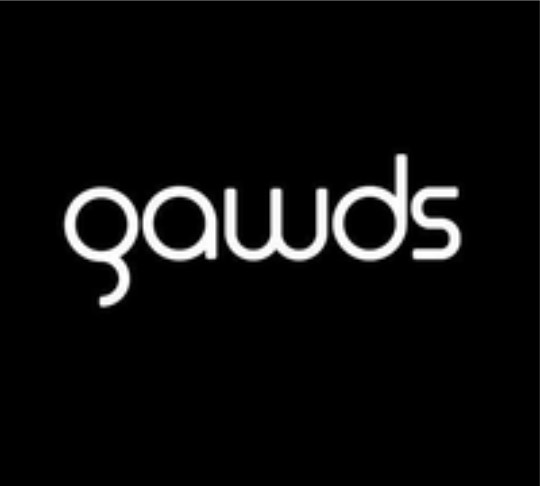
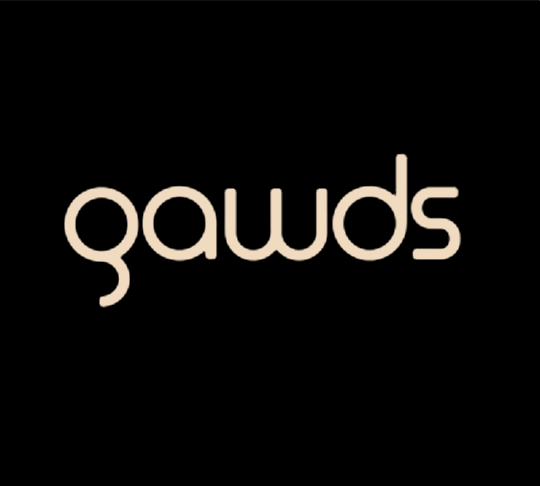
Images color grading

Changed region(s): [[0.1185, 0.3086, 0.8593, 0.6481], [0.9778, 0.0, 1.0, 0.0309]]

diff --git a/portfolio_2/src/Components/About.js b/portfolio_2/src/Components/About.js
@@ -12,30 +12,39 @@ class About extends React.Component {
             <div className="about-container">
                 <div className="about-container-text">
                     <div className="about-container-text-style">
-                        {aboutText}
+                        <div className="about-text">
+                        <span className="about-text-quote">
+                            "You don't need work-life balance if you're able to make work
+                             your life and life your work"</span>
+                             <br/><br/>
+                            Hi there, I am Pratham Agarwal, a 22 year old tech savvy and a software engineer, 
+                            who believes in exploration rather than exploitation and prefers tea over coffee.
+
+                            I have experience in developing full fledged websites from scratch, training deep CNN models
+                             and making life easier by providing automated solutions. 
+
+                            Pursuing competitive programming gave me a good command over data structures and algorithms with problem solving abilities.
+                            <br/><br/>
+
+                            With learning potential as my greatest strength, I don't rely on a single skill set since not every problem can be
+                             tackled with the same old solution. The technology is evolving rapidly and one needs to be 
+                            flexible enough to be able to adapt to it.
+
+                            Do have a look on what I have to offer and get in touch.
+                        </div>
+                        {/* <div className="about-text-right">
+                            Resume
+                            <br/>
+                            W# (+91) 82951 97406
+                            <br/>
+                            L# Dehradun, Uttarakhand, India, 248001
+                            <br/>
+                        </div> */}
                     </div>
                 </div>
-                {/* <div className="about-bolt-tl">
-                    <div className="bolt-minus-white"></div>
-                </div>
-                <div className="about-bolt-tr">
-                    <div className="bolt-minus-white"></div>
-                </div>
-                <div className="about-bolt-bl">
-                    <div className="bolt-minus-white"></div>
-                </div>
-                <div className="about-bolt-br">
-                    <div className="bolt-minus-white"></div>
-                </div> */}
             </div>
             <div className="about-label">
                 <div className="about-label-text">About Me</div>
-                {/* <div className="about-label-bolt-tr">
-                    <div className="bolt-minus-black"></div>
-                </div>
-                <div className="about-label-bolt-br">
-                 <div className="bolt-minus-black"></div>
-                </div> */}
             </div>
         </div>
         );

diff --git a/portfolio_2/src/Components/About.css b/portfolio_2/src/Components/About.css
@@ -43,6 +43,9 @@
 .about-container-text-style{
     font-size: 20px;
     color: #413737;
+    height:450px;
+    width: 100%;
+    /* display: inline-flex; */
     /* font-family: fantasy; */
 }
 
@@ -56,22 +59,6 @@
     font-size:xx-large;
 }
 
-
-.bolt-minus-black{
-    color: #d2d0d0;
-    border-color: #413737;
-    height: 12px;
-    width: 14px;
-    border-width: 3px;
-    border-style: solid;
-    position: absolute;
-    margin-top: 6.5px;
-    margin-left:-2px;
-    border-bottom-color: transparent;
-    border-left-color: transparent;
-    border-right-color: transparent;
-}
-
 .about-label{
     height:150px;
     width:20%;
@@ -82,67 +69,20 @@
     border-radius: 30px;
 }
 
-.about-bolt-tl{
-    position: relative;
-    height: 20px;
-    width: 20px;
-    background-color: #413737;
-    border-radius: 50%;
-    top:10px;
-    left:10px;
+.about-text{
+    height:100%;
+    width:70%;
+    position: absolute;
+    left:0;
+    font-family:cursive;
+    color: #30271e;
+    font-size:85%;
+    text-align: justify;
+    /* border-width: 2px;
+    border-style: solid; */
 }
 
-.about-bolt-tr{
-    position: relative;
-    height: 20px;
-    width: 20px;
-    background-color: #413737;
-    border-radius: 50%;
-    float: right;
-    right:10px;
-    bottom: 10px;   
-}
-
-.about-bolt-bl{
-    position: relative;
-    height: 20px;
-    width: 20px;
-    background-color: #413737;
-    border-radius: 50%;
-    top:450px;
-    left:10px;   
-}
-
-.about-bolt-br{
-    position: relative;
-    height: 20px;
-    width: 20px;
-    background-color: #413737;
-    border-radius: 50%;
-    float: right;
-    right:10px;
-    top:430px;   
-}
-
-.about-label-bolt-tr{
-    position: relative;
-    height: 15px;
-    width: 15px;
-    right:10px;
-    top:10px;
-    background-color: #ff670f;
-    border-radius: 50%;
-    float: right;
-}
-
-.about-label-bolt-br{
-    position: relative;
-    height: 15px;
-    width: 15px;
-    /* right:10px; */
-    right:-5px;
-    top:125px;
-    background-color: #ff670f;
-    border-radius: 50%;
-    float: right;
+.about-text-quote{
+    font-weight: bold;
+    font-size: 25px;
 }

diff --git a/portfolio_2/src/Components/Education.js b/portfolio_2/src/Components/Education.js
@@ -20,28 +20,30 @@ class Education extends React.Component {
                         </div>
 
                         <img className="education-text-entry-cover"
-                        src={process.env.PUBLIC_URL+"/nit-cover.jpg"}></img>
+                        src={process.env.PUBLIC_URL+"/nit-cover-3.jpg"}></img>
                         {/* <div className="education-text-entry-title">
                             National Institute of Technology, Kurukshetra
                         </div> */}
+                        <div className="education-text-entry-dp-back">
                         <img className="education-text-entry-dp"
-                        src={process.env.PUBLIC_URL+"/nit-logo.png"}></img>
-                        
+                        src={process.env.PUBLIC_URL+"/nit-logo-2.png"}></img>
+                        </div>
 
                 </div>
                 <div className="education-text-entry">
                         
                         <img className="education-text-entry-cover"
-                        src={process.env.PUBLIC_URL+"/dis-cover.jpg"}></img>
+                        src={process.env.PUBLIC_URL+"/dis-cover-2.jpg"}></img>
                         <div className="education-text-entry-desc">
                                 {/* Description comes here! */}
                         </div>
                         {/* <div className="education-text-entry-title">
                             Doon International School, Dehradun
                         </div> */}
+                        <div className="education-text-entry-dp-back">
                         <img className="education-text-entry-dp"
-                        src={process.env.PUBLIC_URL+"/dis-logo.jpg"}></img>
-                        
+                        src={process.env.PUBLIC_URL+"/dis-logo-2.jpg"}></img>
+                        </div>
                         
 
                 </div>

diff --git a/portfolio_2/src/Components/Experience.js b/portfolio_2/src/Components/Experience.js
@@ -23,20 +23,20 @@ class Experience extends React.Component {
                 </div>
                 <div className="experience-entry">
                     <div className="experience-entry-logo">
-                        <img src={process.env.PUBLIC_URL + 'natwest.jpg'} 
+                        <img src={process.env.PUBLIC_URL + 'natwest-2.jpg'} 
                         className="experience-entry-logo-img" ></img>
                     </div>
                 </div>
                 <div className="experience-entry">
                     <div className="experience-entry-logo">
-                    <img src={process.env.PUBLIC_URL + 'bluestacks.jpg'} 
+                    <img src={process.env.PUBLIC_URL + 'bluestacks-2.jpg'} 
                         className="experience-entry-logo-img" ></img>
                     </div>
                 
                 </div>
                 <div className="experience-entry">
                  <div className="experience-entry-logo">
-                 <img src={process.env.PUBLIC_URL + 'gawds.jpg'} 
+                 <img src={process.env.PUBLIC_URL + 'gawds-3.jpg'} 
                         className="experience-entry-logo-img" ></img>
                  </div>
                 </div>

diff --git a/portfolio_2/src/Components/Education.css b/portfolio_2/src/Components/Education.css
@@ -59,14 +59,25 @@
     width: 100%;
     height: 200px;
     border-top-right-radius: 50px;
+    background-color: #413737;
 }
 .education-text-entry-dp{
     /* height:150px; */
-    width: 25%;
+    width: 100%;
     border-radius: 50%;
     position: relative;
-    top:-10%;
+    opacity: 0.5;
 }
+
+.education-text-entry-dp-back{
+    width: 150px;
+    border-radius: 50%;
+    height: 150px;
+    position: relative;
+    top:-10%;
+    background-color: #f0dbc1;
+}
+
 
 .education-text-entry-title{
     position: absolute;
